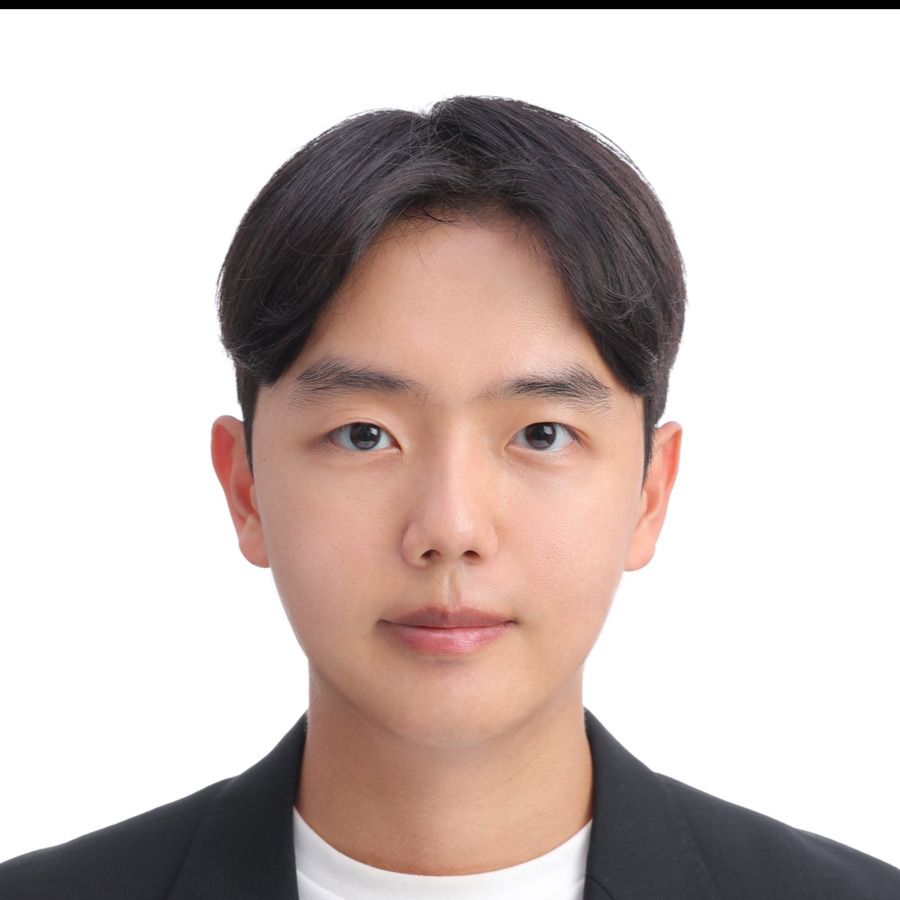
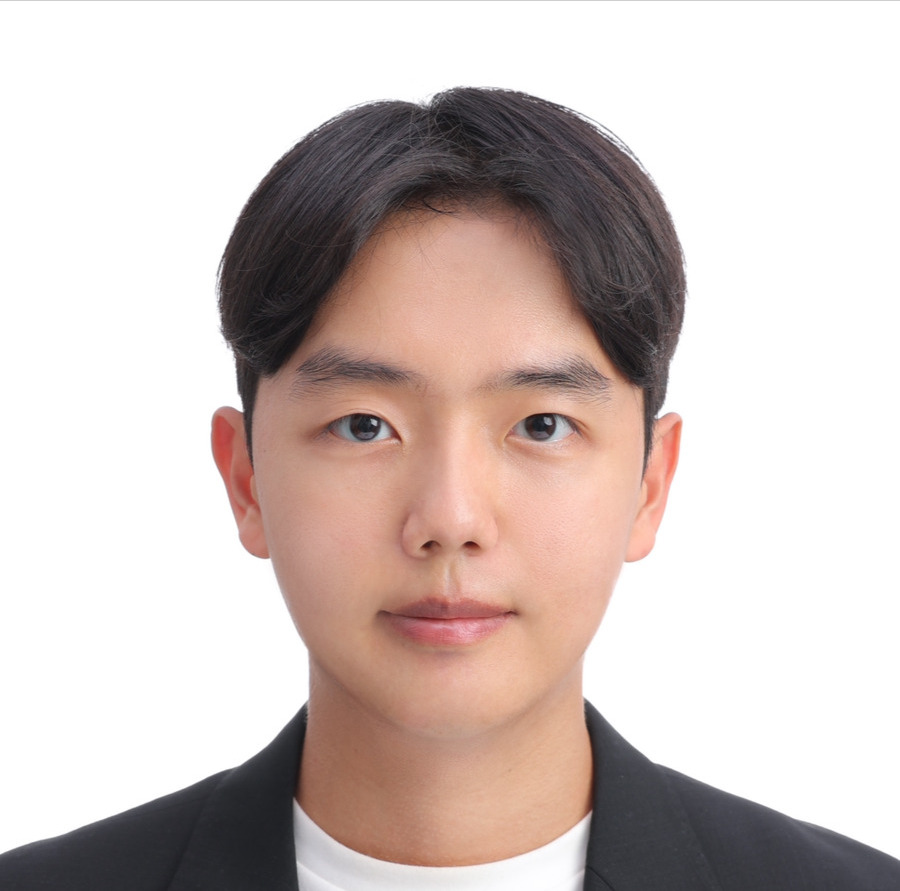
Add latest arXiv publications

diff --git a/_publications/2026-38-Small Models Scout Bottleneck Order for LargeModel Data Control.md b/_publications/2026-38-Small Models Scout Bottleneck Order for LargeModel Data Control.md
@@ -1,0 +1,29 @@
+---
+layout: publications
+section-type: publications
+name: "Small Models Scout Bottleneck Order for Large-Model Data Control"
+conference: arXiv
+year: 2026
+
+author:
+  - name: "Seungmin Choi"
+  - name: "Jiwon Sung"
+  - name: "Muhammad Umer"
+  - name: "Abhiram Rao Gorle"
+  - name: "Guijin Son"
+  - name: "Youngjae Yu"
+  - name: "John M. Cioffi"
+
+img: small-models-scout.png
+
+external:
+  - title: arXiv
+    url: https://arxiv.org/abs/2608.14936
+
+keywords:
+  - name: LLM
+  - name: Data Curation
+  - name: Efficient AI
+
+display: False
+---

diff --git a/_publications/2026-40-PonderPounce A Pretrained MLLM as an Episode Context Engine for Robot Control.md b/_publications/2026-40-PonderPounce A Pretrained MLLM as an Episode Context Engine for Robot Control.md
@@ -1,0 +1,27 @@
+---
+layout: publications
+section-type: publications
+name: "PonderPounce: A Pretrained MLLM as an Episode Context Engine for Robot Control"
+conference: arXiv
+year: 2026
+
+author:
+  - name: "Suhwan Choi"
+  - name: "Jaeyoon Jung"
+  - name: "Sungkyung Kim"
+  - name: "Yunsung Lee"
+  - name: "Youngjae Yu"
+
+img: ponderpounce.png
+
+external:
+  - title: arXiv
+    url: https://arxiv.org/abs/2608.24115
+
+keywords:
+  - name: Robotics
+  - name: Multimodal
+  - name: VLA
+
+display: False
+---

diff --git a/_publications/2026-39-SafeBranch BranchPair Safety Alignment for Embodied Agents.md b/_publications/2026-39-SafeBranch BranchPair Safety Alignment for Embodied Agents.md
@@ -7,17 +7,22 @@ year: 2026
 
 author:
   - name: "Hyunse Lee"
-  - name: "Jiwoo Jung"
+  - name: "Jiwoo Jeong"
   - name: "Haneul Lee"
   - name: "Kyochul Jang"
   - name: "Youngjae Yu"
   - name: "Woojin Lee"
 
-img: comingsoon.jpg
+img: safebranch.png
+
+external:
+  - title: arXiv
+    url: https://arxiv.org/abs/2608.19729
 
 keywords:
   - name: Robotics
   - name: Embodied AI
+  - name: AI Safety
 
 display: False
 ---
